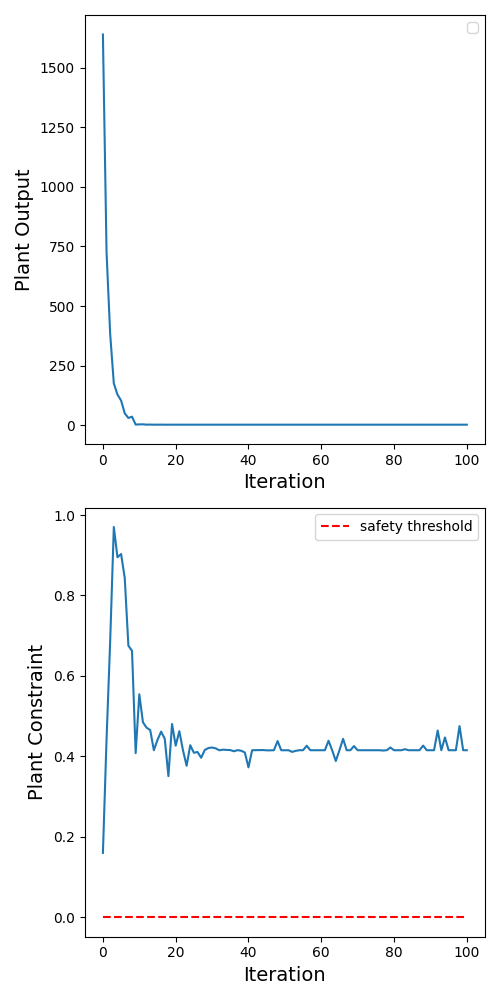
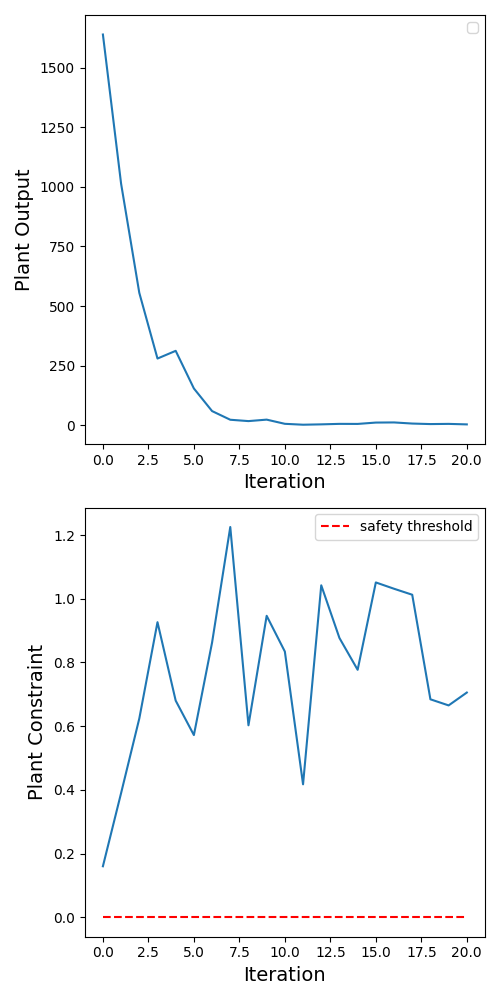
fixed problem on case with empty localsol and localval

diff --git a/BayesRTOjax.py b/BayesRTOjax.py
@@ -301,7 +301,7 @@ class BayesianOpt():
                 # --- Optimize Acquisition --- #          
     #######################################################
 
-    def minimize_acquisition(self,r,x_0,b=0,multi_start=1):
+    def minimize_acquisition(self,r,x_0,data_storage,b=0,multi_start=1):
         '''
         Description:
             Find minimizer x* in a Gaussian Process Lower Confidence Bound
@@ -318,8 +318,8 @@ class BayesianOpt():
         # Initialization
         options                     = {'disp':False, 'maxiter':10000,'ftol': 1e-12} 
         cons                        = []
-        localsol                    = []
-        localval                    = []
+        localsol                    = [x_0.tolist()]
+        localval                    = [data_storage.data['plant_temporary'][0][0]]
 
         # Jit relavent class methods and JAX grad
         self.GP_inference_np_jit    = jit(self.GP_inference_np)
@@ -355,17 +355,23 @@ class BayesianOpt():
             
             for con in cons:
                 if con['fun'](res.x) < -0.1:
+                    passed = False
                     break # Barrier when minimize significantly fails 
                 else:
+                    passed = True
+            if passed:
                     localsol.append(res.x)
                     localval.append(res.fun)
 
+        print(localval)
         localsol                    = jnp.array(localsol)
         localval                    = jnp.array(localval)
         minindex                    = jnp.argmin(localval)
+        print(minindex)
         xopt                        = localsol[minindex]
+        print(x_0+xopt)
         funopt                      = localval[minindex]
-
+        print(funopt)
         return xopt, funopt
     
     def obj_fun(self, x, b):
@@ -380,7 +386,8 @@ class BayesianOpt():
         GP_inference                = self.GP_inference_np_jit(x)
         mean                        = GP_inference[0][index]
         std                         = jnp.sqrt(GP_inference[1][index])
-        value                       = mean + b*std
+        # value                       = mean + b*std
+        value                       = mean
 
         return value
     
@@ -427,7 +434,7 @@ class BayesianOpt():
         for i in range(n_iter):
 
             # Bayesian Optimization
-            d_new, obj              = self.minimize_acquisition(radius,x_initial,multi_start=multi_start,b=b)
+            d_new, obj              = self.minimize_acquisition(radius,x_initial,data_storage,multi_start=multi_start,b=b)
 
             # Retrieve Data from plant system
             plant_output            = self.calculate_plant_outputs(x_initial+d_new)
@@ -439,7 +446,7 @@ class BayesianOpt():
             # Trust Region Update:
             x_new, radius_new       = self.update_TR(x_initial,x_initial+d_new,radius,
                                                      TR_parameters,data_storage)
-
+            print(f"x_new: {x_new}")
             # Add sample to Gaussian Process
             self.add_sample(x_initial+d_new,plant_output)
 
@@ -500,19 +507,26 @@ class BayesianOpt():
         GP_previous     = self.GP_inference_np_jit(x_initial)[0][0]
         GP_now          = self.GP_inference_np_jit(x_new)[0][0]
 
-        rho             = (plant_now-plant_previous)/(GP_now-GP_previous)
+        rho             = (plant_now-plant_previous)/(GP_now-GP_previous+1e-8)
 
-        if rho < rho_lb:
-            return x_initial, r*r_red
         
-        elif plant_previous < plant_now:
+        if plant_previous < plant_now:
+            print(f"worse step")
+            return x_initial, r*r_red
+        else:
+            pass
+        
+        if rho < rho_lb:
+            print('too low rho')
             return x_initial, r*r_red
         
         elif rho >= rho_lb and rho < rho_ub: 
+            print("moderate rho")
             data_storage.data['plant_temporary'][0][0] = plant_now
             return x_new, r
         
         else: # rho >= rho_ub
+            print("big rho")
             data_storage.data['plant_temporary'][0][0] = plant_now
             return x_new, min(r*r_inc,r_max)
         

diff --git a/Benoit_Problem.py b/Benoit_Problem.py
@@ -134,7 +134,7 @@ def create_frame(fun_drawing,filename):
 def create_GIF(frame_duration,filenames,GIFname,output_dir='output'):
     # create a GIF from saved frames
     gif_path = os.path.join(output_dir, GIFname)
-    with imageio.get_writer(gif_path, mode='I', duration=frame_duration) as writer:
+    with imageio.get_writer(gif_path, mode='I', duration=frame_duration, loop=0) as writer:
             for filename in filenames:
                     image = imageio.imread(filename)
                     writer.append_data(image)

diff --git a/Rosenbrock_Problem.py b/Rosenbrock_Problem.py
@@ -95,7 +95,7 @@ def create_frame(fun_drawing,filename):
 def create_GIF(frame_duration,filenames,GIFname,output_dir='output'):
     # create a GIF from saved frames
     gif_path = os.path.join(output_dir, GIFname)
-    with imageio.get_writer(gif_path, mode='I', duration=frame_duration) as writer:
+    with imageio.get_writer(gif_path, mode='I', duration=frame_duration, loop=0) as writer:
             for filename in filenames:
                     image = imageio.imread(filename)
                     writer.append_data(image)

diff --git a/test.py b/test.py
@@ -3,7 +3,6 @@ import numpy as np
 import matplotlib.pyplot as plt
 import copy
 
-a = jnp.array([])
-b = [1,1]
-a = jnp.append(a,b)
-print(a)
+a = jnp.array([1013.3694458007812, 78.561279296875, -14.7225341796875, 179.20074462890625, 96.37542724609375])
+print(jnp.argmin(a))
+

diff --git a/test/test_BayesRTOjax.py b/test/test_BayesRTOjax.py
@@ -281,9 +281,9 @@ def test_RTOminimize_Rosenbrock():
 
     # Real-Time Optimization 
     x_i = jnp.array([-1.8,-.8])
-    n_iter = 100
+    n_iter = 20
     multi_start = 5
-    b = 0.
+    b = 3
     TR_parameters = {
         'radius': 0.25,
         'radius_max': 0.7,
